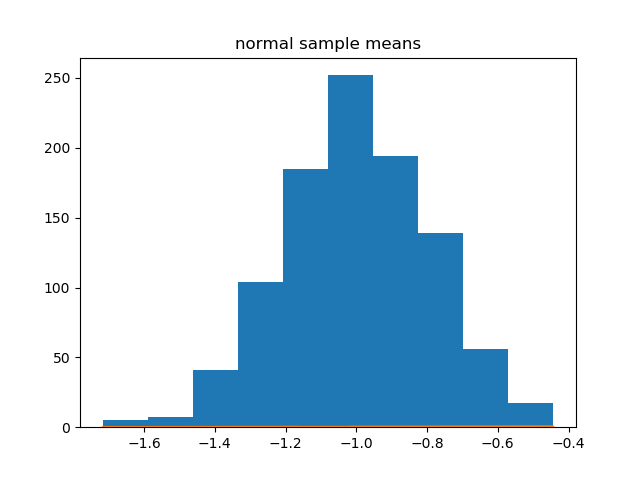
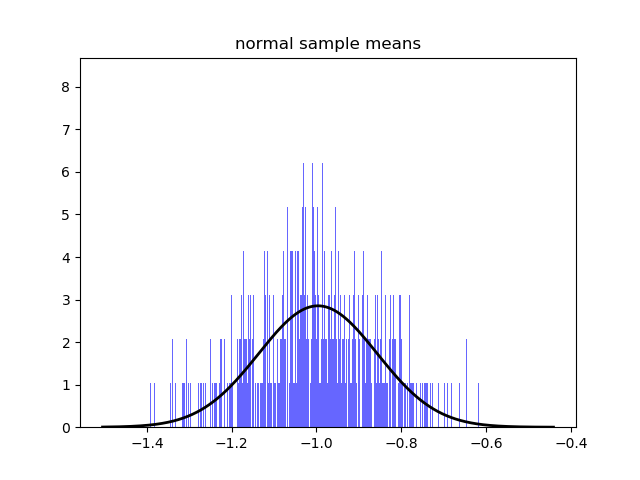
question 2-4 finished

diff --git a/homework_2/question_2.py b/homework_2/question_2.py
@@ -1,58 +1,60 @@
 from random import random
 import numpy as np
 import matplotlib.pyplot as plt
+import scipy.stats
 from scipy.stats import norm, binom
 import math
 
-bern_total = []
+binom_total = []
 norm_total = []
 
-bern_mean = []
+binom_mean = []
 norm_mean = []
 
 def gen_bino():
-    return binom.rvs(n=10, p=0.3, size=100)
+    return binom.rvs(n=10, p=0.4, size=100)
 
 def gen_norm():
     return norm.rvs(loc=-1, scale=math.sqrt(2), size=100)
 
 for bin in range(1000):
-    bern_list = gen_bino()
+    binom_list = gen_bino()
     norm_list = gen_norm()
     # store all entries
-    bern_total.extend(bern_list)
+    binom_total.extend(binom_list)
     norm_total.extend(norm_list)
     # now we calculate the mean
-    bern_mean.append(bern_list.mean())
+    binom_mean.append(binom_list.mean())
     norm_mean.append(norm_list.mean())
 
-# calculate population mean and variance
-mu = np.mean(bern_total)
-var = np.var(bern_total)
+mu = np.mean(binom_mean)
+var = np.var(binom_mean)
 sigma = math.sqrt(var)
-print('Binomial\n\tMean:', mu, 'Variance:', var)
-plt.figure(1)
-# find x values
+print('Binomial\n\tMean:', mu, 'Standard Deviation:', sigma)
 x = set()
-for i in bern_mean:
+for i in binom_mean:
     x.add(i)
-x = list(x)
-plt.hist(bern_mean)
-plt.plot(x, norm.pdf(x, mu, sigma))
+print('binomial unique means:', len(x))
+plt.figure(1)
+plt.hist(binom_mean, len(x), density=True, alpha=0.6, color='b')
+xmin, xmax = plt.xlim()
+x = np.linspace(xmin, xmax, len(x))
+plt.plot(x, norm.pdf(x, mu, sigma), 'k', linewidth=2)
 plt.title('binomial sample means')
-plt.savefig("q2_bern.png")
+plt.savefig("q2_binom.png")
 
-mu = np.mean(norm_total)
-var = np.var(norm_total)
+mu = np.mean(norm_mean)
+var = np.var(norm_mean)
 sigma = math.sqrt(var)
-print('Normal\n\tMean:', mu, 'Variance:', var)
-plt.figure(2)
-# find x values
+print('Normal\n\tMean:', mu, 'Standard Deviation:', sigma)
 x = set()
 for i in norm_mean:
     x.add(i)
-x = list(x)
-plt.hist(norm_mean)
-plt.plot(x, norm.pdf(x, mu, sigma))
+print('normal unique means:', len(x))
+plt.figure(2)
+plt.hist(norm_mean, len(x), density=True, alpha=0.6, color='b')
+xmin, xmax = plt.xlim()
+x = np.linspace(xmin, xmax, len(x))
+plt.plot(x, norm.pdf(x, mu, sigma), 'k', linewidth=2)
 plt.title('normal sample means')
 plt.savefig("q2_norm.png")

diff --git a/homework_2/question_3.py b/homework_2/question_3.py
@@ -1,0 +1,39 @@
+from random import random
+import numpy as np
+from scipy.stats import ttest_ind_from_stats
+
+filename = './data/cars.csv'
+
+jap_car = []
+us_car = []
+
+def read_file():
+    with open(filename, 'r') as f:
+        file = f.readlines()
+
+    for line in file:
+        # US, JAP
+        newline = line.strip('\n')
+        tokens = newline.split(',')
+        if tokens[0] is not '':
+            us_car.append(int(tokens[0]))
+        if tokens[1] is not '':
+            jap_car.append(int(tokens[1]))
+
+read_file()
+print('japanese cars:', len(jap_car))
+print('us cars:', len(us_car))
+print('')
+
+# we obtain samples statistics
+jap_mu = np.mean(jap_car)
+jap_std = np.std(jap_car)
+us_mu = np.mean(us_car)
+us_std = np.std(us_car)
+
+print('Japanese\n\t', 'mean:', "{:.2f}".format(jap_mu), 'standard deviation:', "{:.2f}".format(jap_std))
+print('US\n\t', 'mean:', "{:.2f}".format(us_mu), 'standard deviation:', "{:.2f}".format(us_std))
+print('')
+# perform testing with scipy library
+t_stat, p_value = ttest_ind_from_stats(jap_mu, jap_std, len(jap_car), us_mu, us_std, len(us_car))
+print('t-statistic:', "{:.3f}".format(t_stat), 'p-value:', "{:.3f}".format(p_value))

diff --git a/homework_2/question_4.py b/homework_2/question_4.py
@@ -1,0 +1,29 @@
+from random import random
+import numpy as np
+from scipy.stats import f_oneway
+
+filename = './data/gears.csv'
+
+batch_map = dict()
+
+def read_file():
+    with open(filename, 'r', encoding='utf-8-sig') as f:
+        file = f.readlines()
+
+    for line in file:
+        # US, JAP
+        newline = line.strip('\n')
+        tokens = newline.split(',')
+        v = float(tokens[0])
+        batch = int(tokens[1])
+        if batch not in batch_map:
+            batch_map[batch] = []
+        batch_map[batch].append(v)
+
+read_file()
+
+# now we just use scipy f_oneway and return ANOVA f-statistic and p-value
+f_statistic, p_value = f_oneway(batch_map[1], batch_map[2], batch_map[3], 
+                                    batch_map[4], batch_map[5], batch_map[6], 
+                                    batch_map[7], batch_map[8], batch_map[9], batch_map[10])
+print('f-statistic:', "{:.3f}".format(f_statistic), 'p-value:', "{:.3f}".format(p_value))
